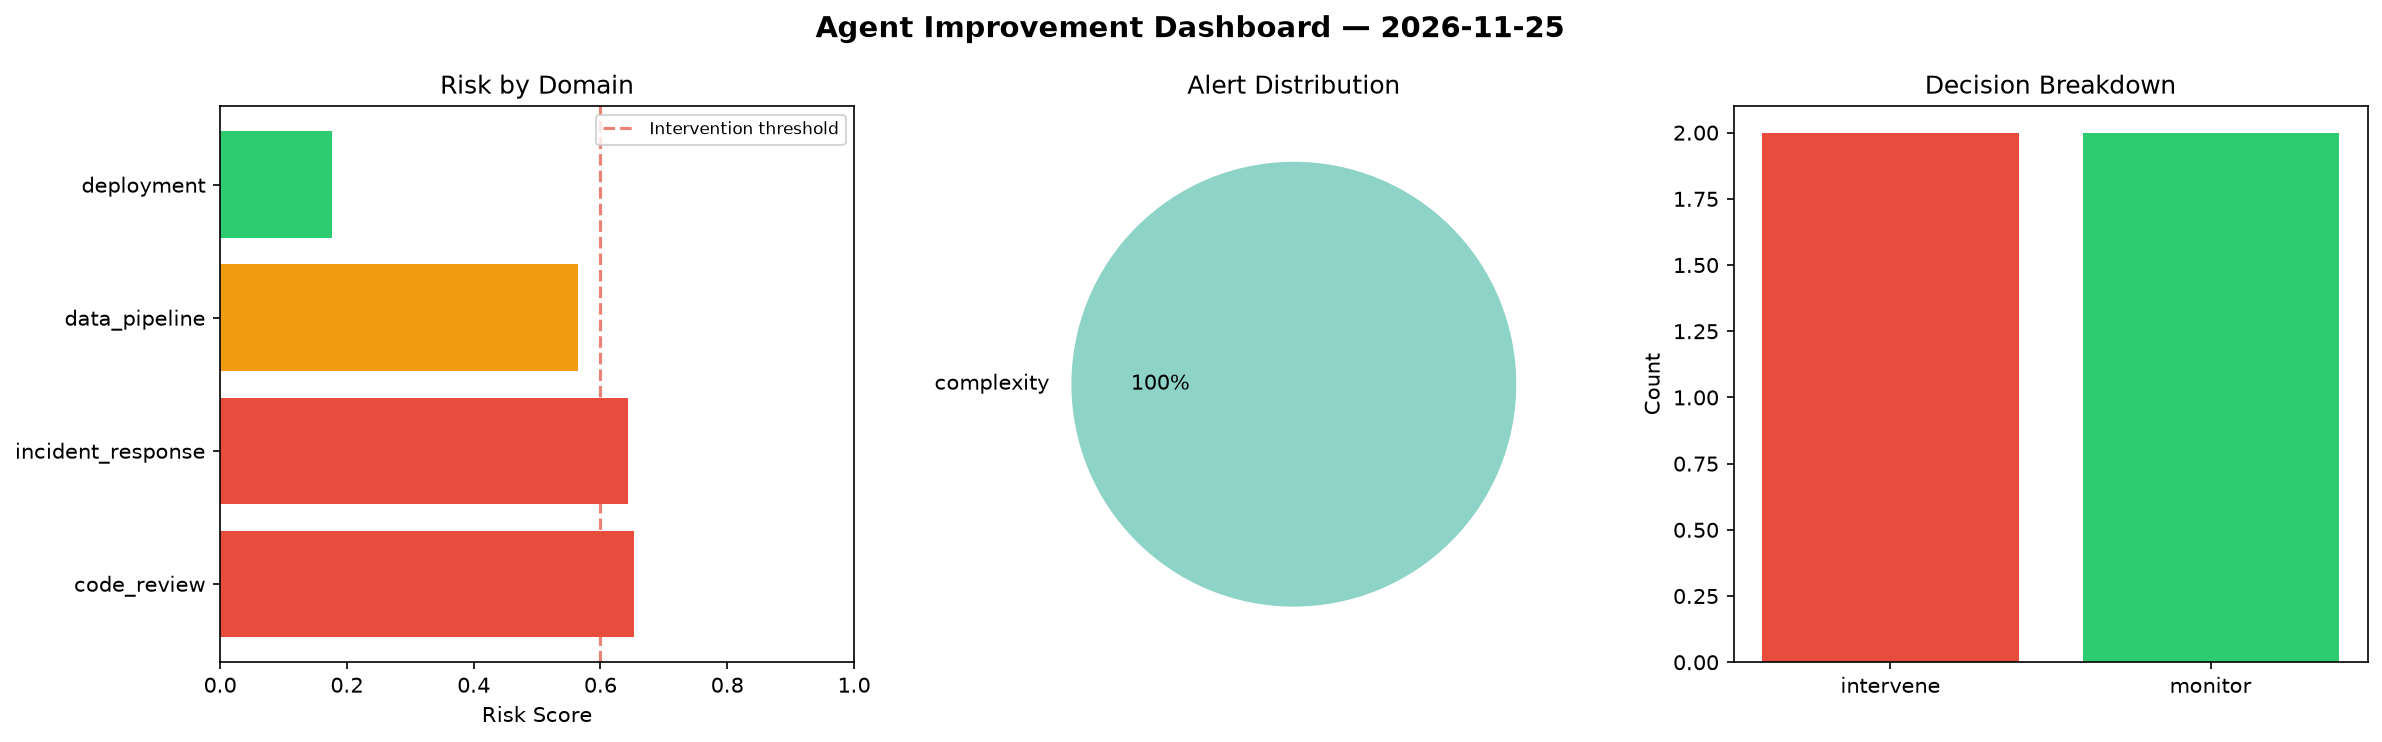
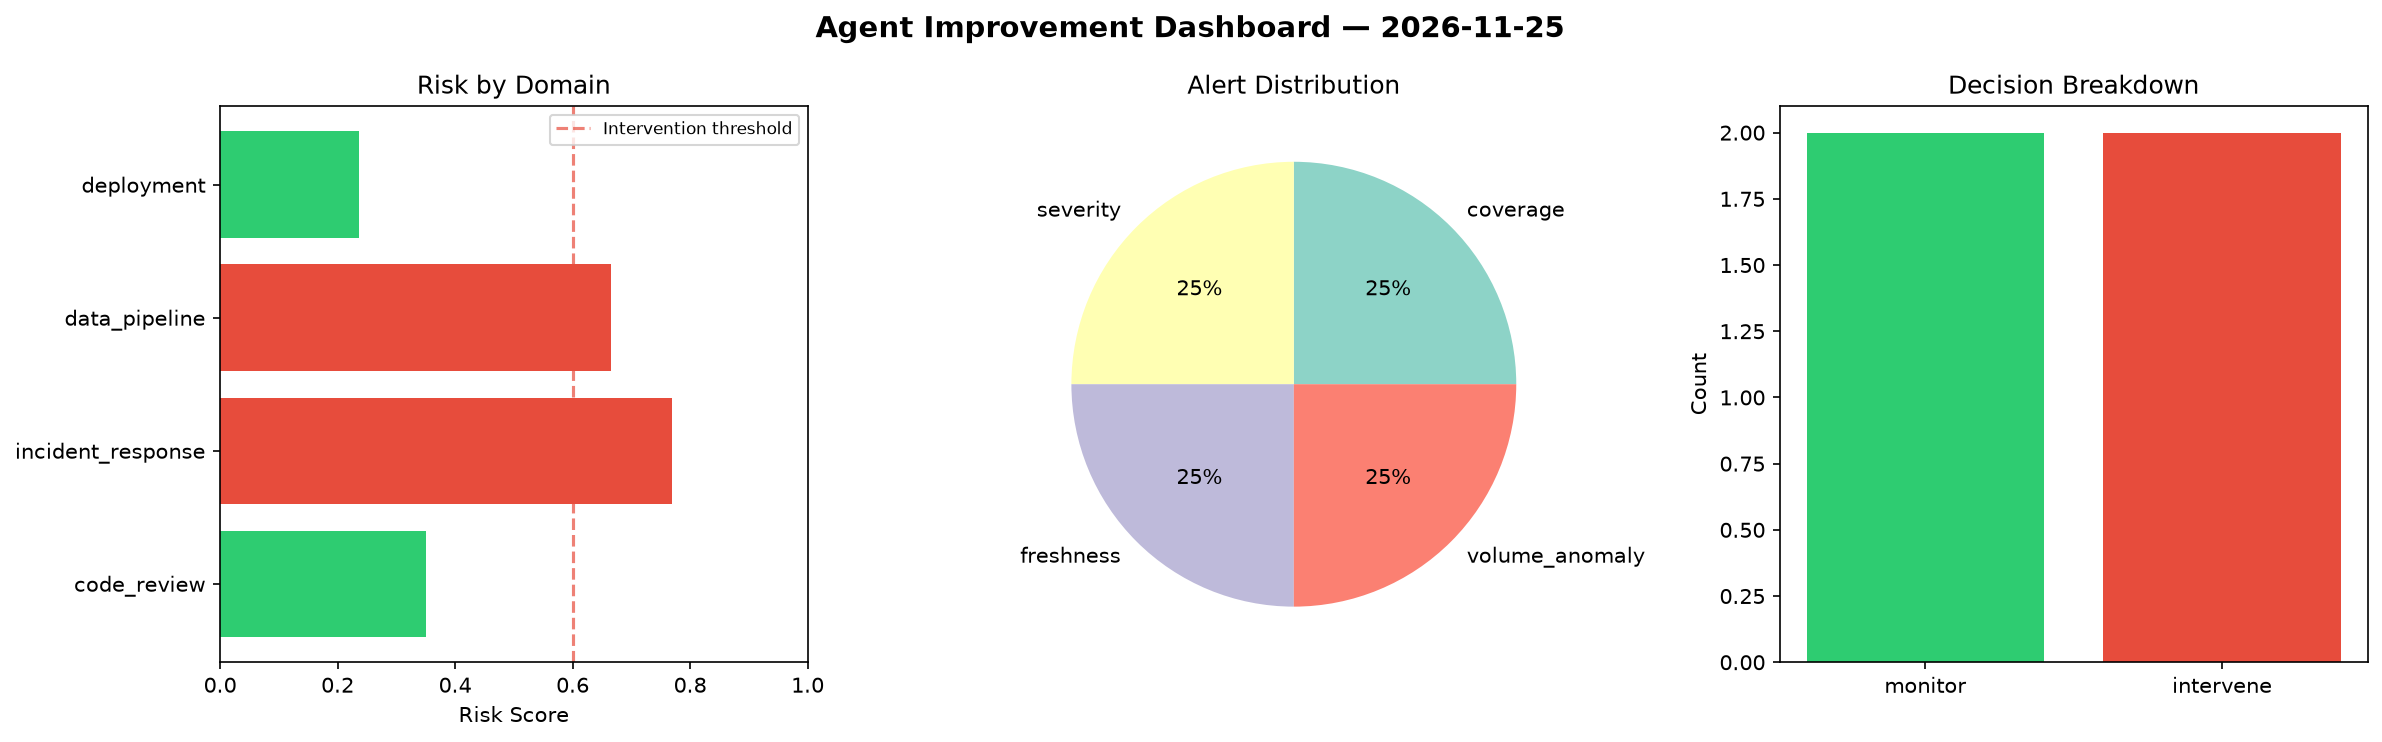
agent-improvement: daily cycle 2026-11-25T23:06

diff --git a/logs/2026-11-25.md b/logs/2026-11-25.md
@@ -1,6 +1,6 @@
 # Agent Improvement Report — 2026-11-25
 
-**Cycle ID:** `c2d9d134` | **Avg Risk:** 0.5095 | **Interventions:** 2/4
+**Cycle ID:** `6bb0b64f` | **Avg Risk:** 0.505 | **Interventions:** 2/4
 
 ![Dashboard](2026-11-25_dashboard.png)
 
@@ -10,18 +10,18 @@
 
 | Domain | Risk Score | Decision | Alerts |
 |--------|-----------|----------|--------|
-| code_review | 0.6527 | intervene | complexity |
-| incident_response | 0.6438 | intervene | none |
-| data_pipeline | 0.5643 | monitor | none |
-| deployment | 0.1771 | monitor | none |
+| code_review | 0.3497 | monitor | coverage |
+| incident_response | 0.7684 | intervene | severity |
+| data_pipeline | 0.665 | intervene | freshness, volume_anomaly |
+| deployment | 0.237 | monitor | none |
 
 ## Delta vs Yesterday
 
 | Domain | Today | Yesterday | Change |
 |--------|-------|-----------|--------|
-| code_review | 0.6527 | 0.359 | 📈 81.8% |
-| incident_response | 0.6438 | 0.5759 | 📈 11.8% |
-| data_pipeline | 0.5643 | 0.612 | 📉 -7.8% |
-| deployment | 0.1771 | 0.3931 | 📉 -54.9% |
+| code_review | 0.3497 | 0.359 | 📉 -2.6% |
+| incident_response | 0.7684 | 0.5759 | 📈 33.4% |
+| data_pipeline | 0.665 | 0.612 | 📈 8.7% |
+| deployment | 0.237 | 0.3931 | 📉 -39.7% |
 
 **Refinement:** `{'adjustment': 'maintain', 'trend': 'improving', 'window': 4}`
